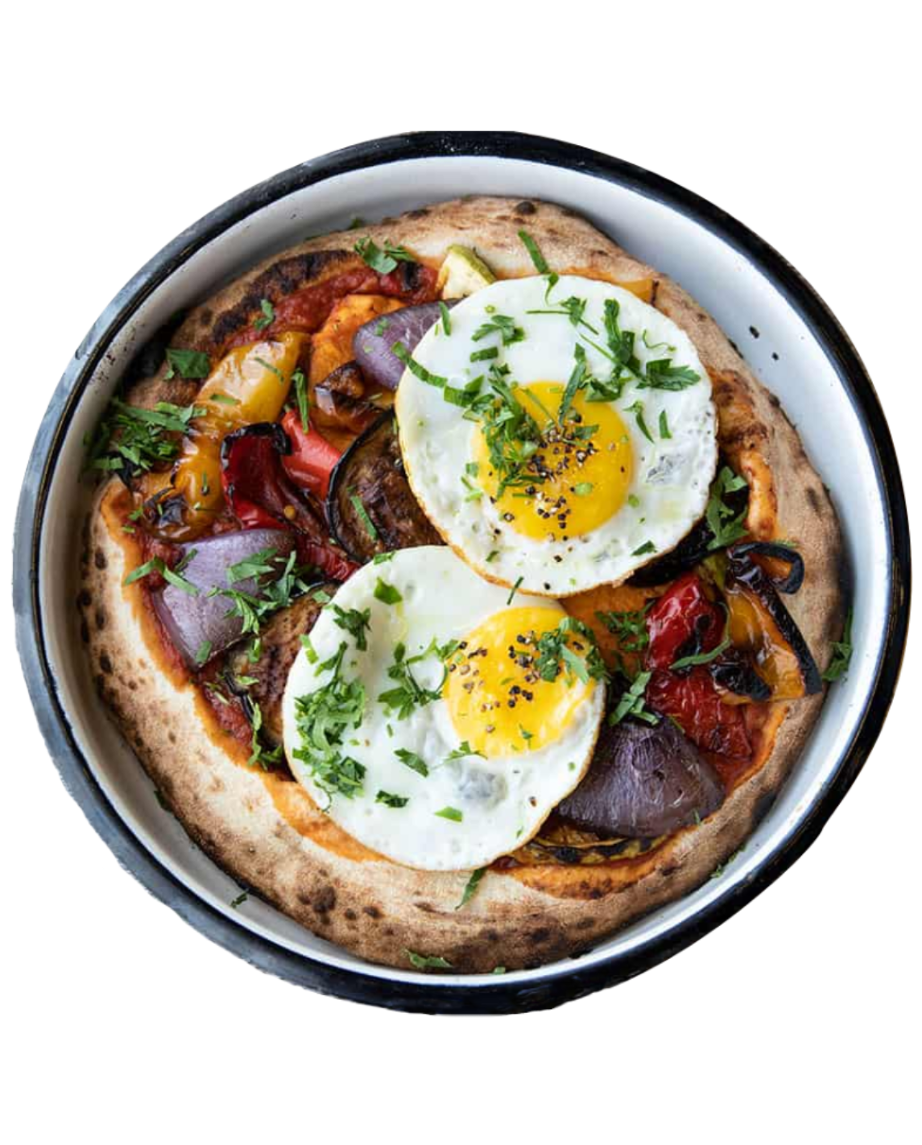
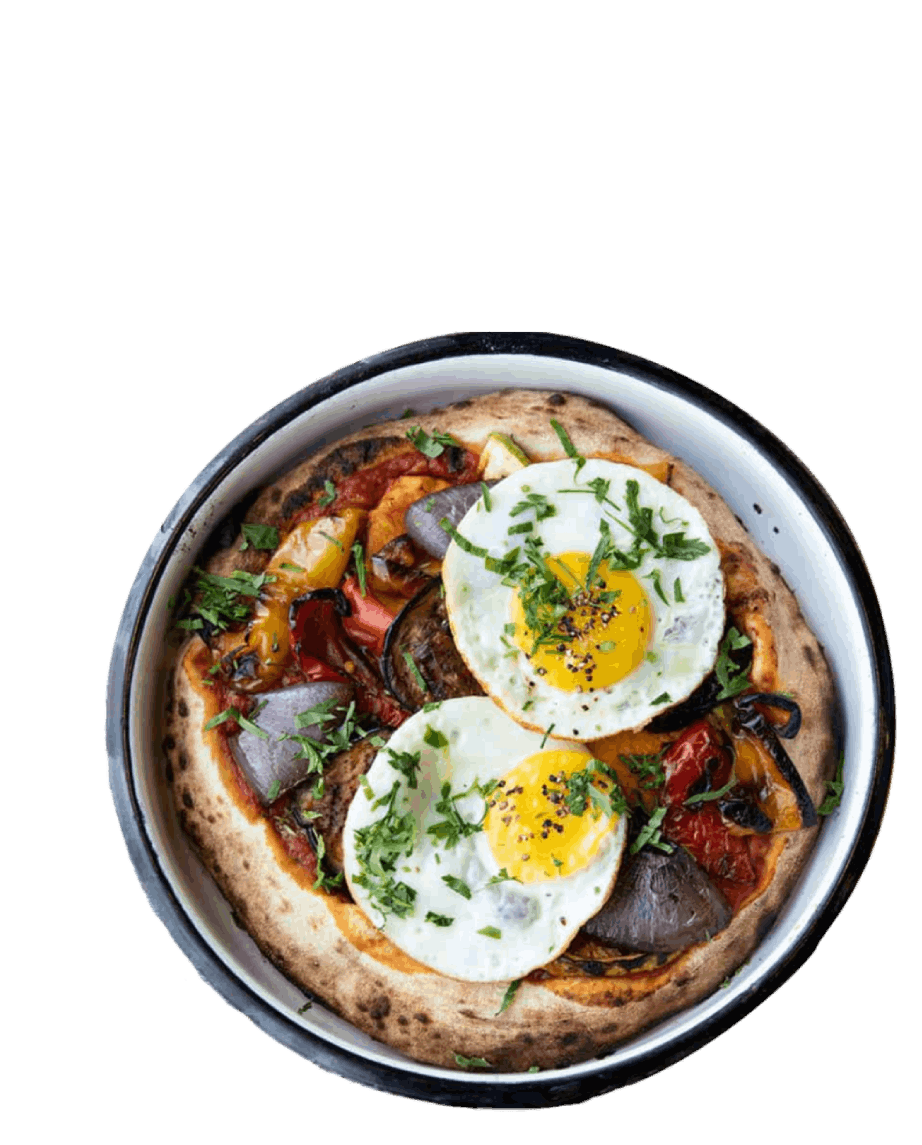
slider fixes

diff --git a/pages/index.js b/pages/index.js
@@ -57,7 +57,7 @@ export default function Home() {
   var settings = {
     dots: false,
     infinite: true,
-    autoplay: true,
+    autoplay: false,
     arrows: false,
     speed: 1000,
     autoplaySpeed: 5000,
@@ -227,16 +227,16 @@ export default function Home() {
                 <div className={styles.food_plate2}>
                   <Image
                     src={foodPlate2}
-                    width={650}
-                    height={850}
+                    width={922}
+                    height={1145}
                     alt="foodPlate"
                   />
                 </div>
                 <div className={styles.food_plate3}>
                   <Image
                     src={foodPlate3}
-                    width={660}
-                    height={660}
+                    width={922}
+                    height={1145}
                     alt="foodPlate"
                   />
                 </div>

diff --git a/styles/Home.module.scss b/styles/Home.module.scss
@@ -109,7 +109,7 @@ $desk: math.div(100, 1920);
 
       .main_slider {
         position: relative;
-        left: -84%;
+        left: -94%;
         top: -10%;
         z-index: 1;
         width: 900 * $desk + vw;
@@ -118,11 +118,11 @@ $desk: math.div(100, 1920);
         cursor: pointer;
 
         .food_plate2 {
-          margin: 4vw 0 0 0vw;
+          margin: -4vw 0 0 0vw;
         }
 
         .food_plate3 {
-          margin: 10vw 0 0 0vw;
+          margin: -3vw 0 0 0vw;
         }
       }
 
